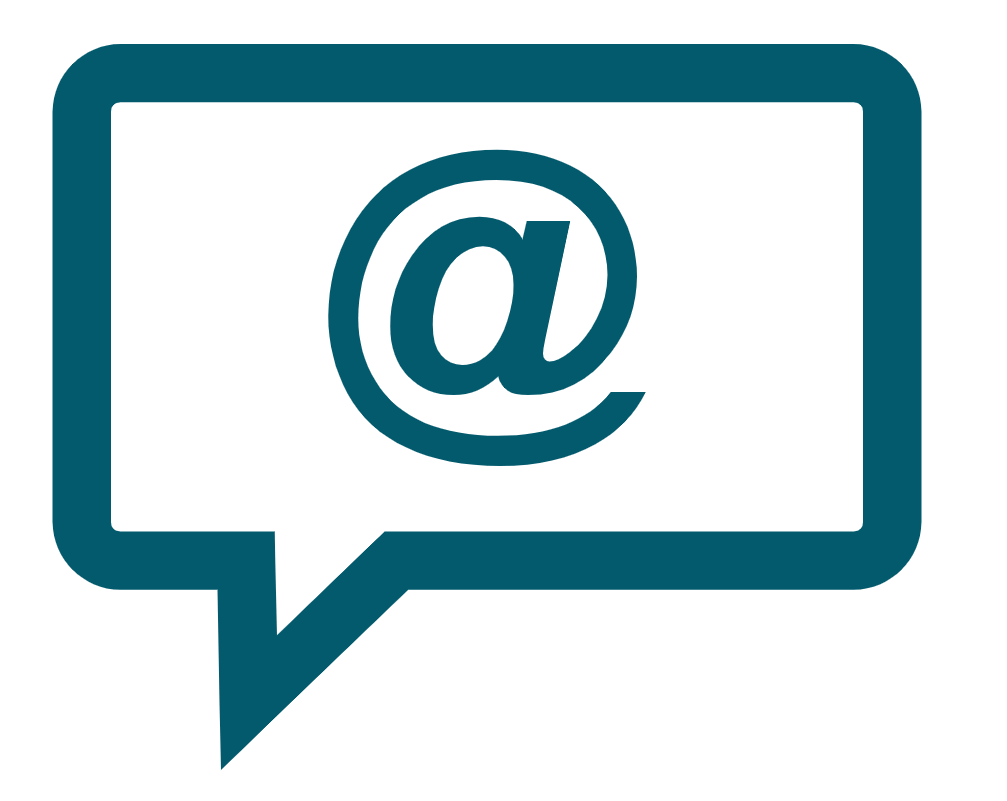
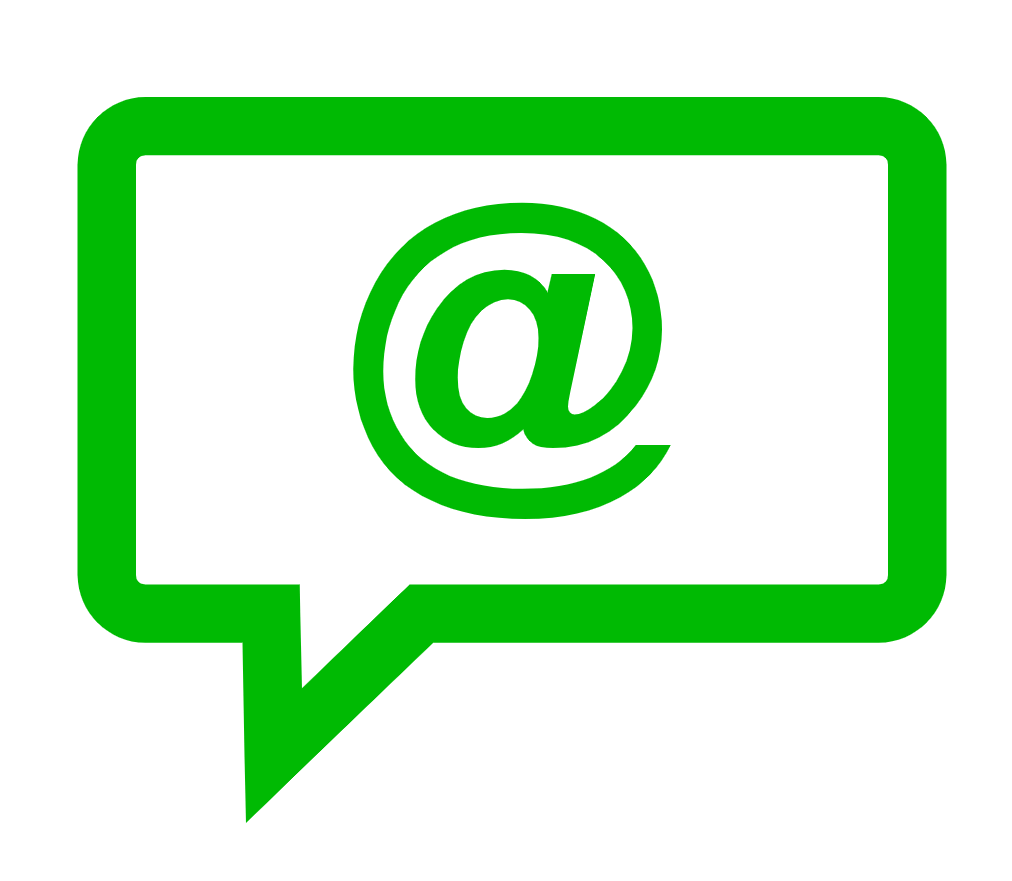
Add files via upload

diff --git a/TwitBot.py b/TwitBot.py
@@ -1,27 +1,113 @@
+from win10toast import ToastNotifier
+import time
+from time import sleep
+from datetime import datetime, date
+
+import csv
+# import SentimentIntensityAnalyzer class 
 import twint
 import textwrap3
+# from vaderSentiment.vaderSentiment module. 
+from vaderSentiment.vaderSentiment import SentimentIntensityAnalyzer
 
-print("TwitBot Social Scrapper [Version 3.1.1] | (c) 2019 QuickBot Enterprises | All rights reserved. ")
+import sys
+non_bmp_map = dict.fromkeys(range(0x10000, sys.maxunicode + 1), 0xfffd)
+
+now = datetime.now()
+toaster = ToastNotifier()
+
+#POWERING TWINT
+print("TwitBot [Version 3.1.1] | (c) 2019 QuickBot Enterprises | All rights reserved. ")
+print("\n")
+
+#Greet the user
+User_Name=input("Name: ")
+print("\n")
+if now.hour == 1 or now.hour == 2 or now.hour == 3 or now.hour == 4 or now.hour == 5 or now.hour == 6 or now.hour == 7 or now.hour == 8 or now.hour == 9:
+    print("Good morning", User_Name, "...")
+elif now.hour==10 or now.hour == 11:
+    print("Good morning", User_Name, "...")
+elif now.hour==13 or now.hour == 12 or now.hour == 14 or now.hour == 15 or now.hour == 16:
+    print("Good afternoon", User_Name, "...")
+elif now.hour==17 or now.hour == 18 or now.hour == 19 or now.hour == 20 or now.hour == 21 or now.hour == 22 or now.hour == 23:
+    print("Hey", User_Name, "going on overtime, eh?")
+
 print("\n")
 c = twint.Config()
-c.Search = input("Give me a topic, a hashtag or a person, and i'll get the tweets for you: ")
+c.Search = input(">> Give me a topic, a hashtag or a person, and i'll get the tweets for you: ")
 print("\n")
+
 
 # Custom output format
 c.Format = "\n Date: {date} |  Username: {username} | Tweet: {tweet} | Replies: {replies} | Retweets: {retweets} | Likes: {likes}  "
 Format= "Date | Username | Tweet | Replies | Retweets | Likes "
+
 list=textwrap3.wrap(Format, width=95)
 for element in list:
     print(element)
-#c.Custom["Date", "Username", "tweet"] = ["date", "username", "tweet"]
 c.Store_csv = True
-#c.Custom["Date", "Username", "tweet"] = ["date", "username", "tweet"]
-c.Limit = 200
-c.Output = "Feedback.csv"
-
+c.Limit = 5
+c.Output = "Tweets.csv"
 twint.run.Search(c)
 
+toaster.show_toast("Tweet Fetch Complete",
+                            "Starting Sentiment Analysis",
+                            icon_path="Twit.ico",
+                            duration=5)
 
-
-
-
+# function to print sentiments 
+# of the sentence. 
+def sentiment_scores(sentence): 
+  
+    # Create a SentimentIntensityAnalyzer object. 
+    sid_obj = SentimentIntensityAnalyzer() 
+  
+    # polarity_scores method of SentimentIntensityAnalyzer 
+    # oject gives a sentiment dictionary. 
+    # which contains pos, neg, neu, and compound scores. 
+    sentiment_dict = sid_obj.polarity_scores(sentence) 
+      
+    print("Overall sentiment dictionary is : ", sentiment_dict) 
+    print("sentence was rated as ", sentiment_dict['neg']*100, "% Negative") 
+    print("sentence was rated as ", sentiment_dict['neu']*100, "% Neutral") 
+    print("sentence was rated as ", sentiment_dict['pos']*100, "% Positive") 
+  
+    print("Sentence Overall Rated As", end = " ") 
+  
+    # decide sentiment as positive, negative and neutral 
+    if sentiment_dict['compound'] >= 0.05 : 
+        print("Positive") 
+  
+    elif sentiment_dict['compound'] <= - 0.05 : 
+        print("Negative") 
+  
+    else : 
+        print("Neutral")
+    try:
+        f = csv.writer(open('Tweet-Sentiment.csv', 'a', encoding='utf-8', errors='ignore'))
+        f.writerow(['Tweet', "Compound", "Positive", "Negative", "Neutral"])
+        Tweet=sentence
+        Compound=sentiment_dict['compound']*100
+        Positive= sentiment_dict['pos']*100
+        Negative= sentiment_dict['neg']*100
+        Neutral=sentiment_dict['neu']*100
+        f.writerow([Tweet, Compound, Positive, Negative, Neutral])
+    except Exception as e:
+        print(e)
+  
+  
+    
+# Driver code 
+if __name__ == "__main__" :
+    infile = c.Output
+    with open(infile, 'r', encoding='utf-8', errors='ignore') as csvfile:
+        rows = csv.reader(csvfile)
+        count=1
+        for row in rows:
+            sentence = row[10]
+            print("\n", count, ")", sentence.translate(non_bmp_map))
+            print(sentiment_scores(sentence) )
+            count=count+1
+            noneTypeCount = 0
+  
+            

diff --git a/setup.py b/setup.py
@@ -10,7 +10,7 @@ os.environ['TK_LIBRARY'] = os.path.join(PYTHON_INSTALL_DIR, 'tcl', 'tk8.6')
 
 sys.argv.append("build")
 filename="TwitBot.py"
-icon="TwitBot-Icon.ico"
+icon="Twit.ico"
 
 base = None
 
@@ -23,7 +23,7 @@ options={
 if sys.platform=="win64":
     base="Win64GUI"
 
-exe = Executable(script='TwitBot.py', base = base, icon="TwitBot-Icon.ico")
+exe = Executable(script='TwitBot.py', base = base, icon="Twit.ico")
 
 additional_mods = ['numpy.core._methods', 'numpy.lib.format']
 
